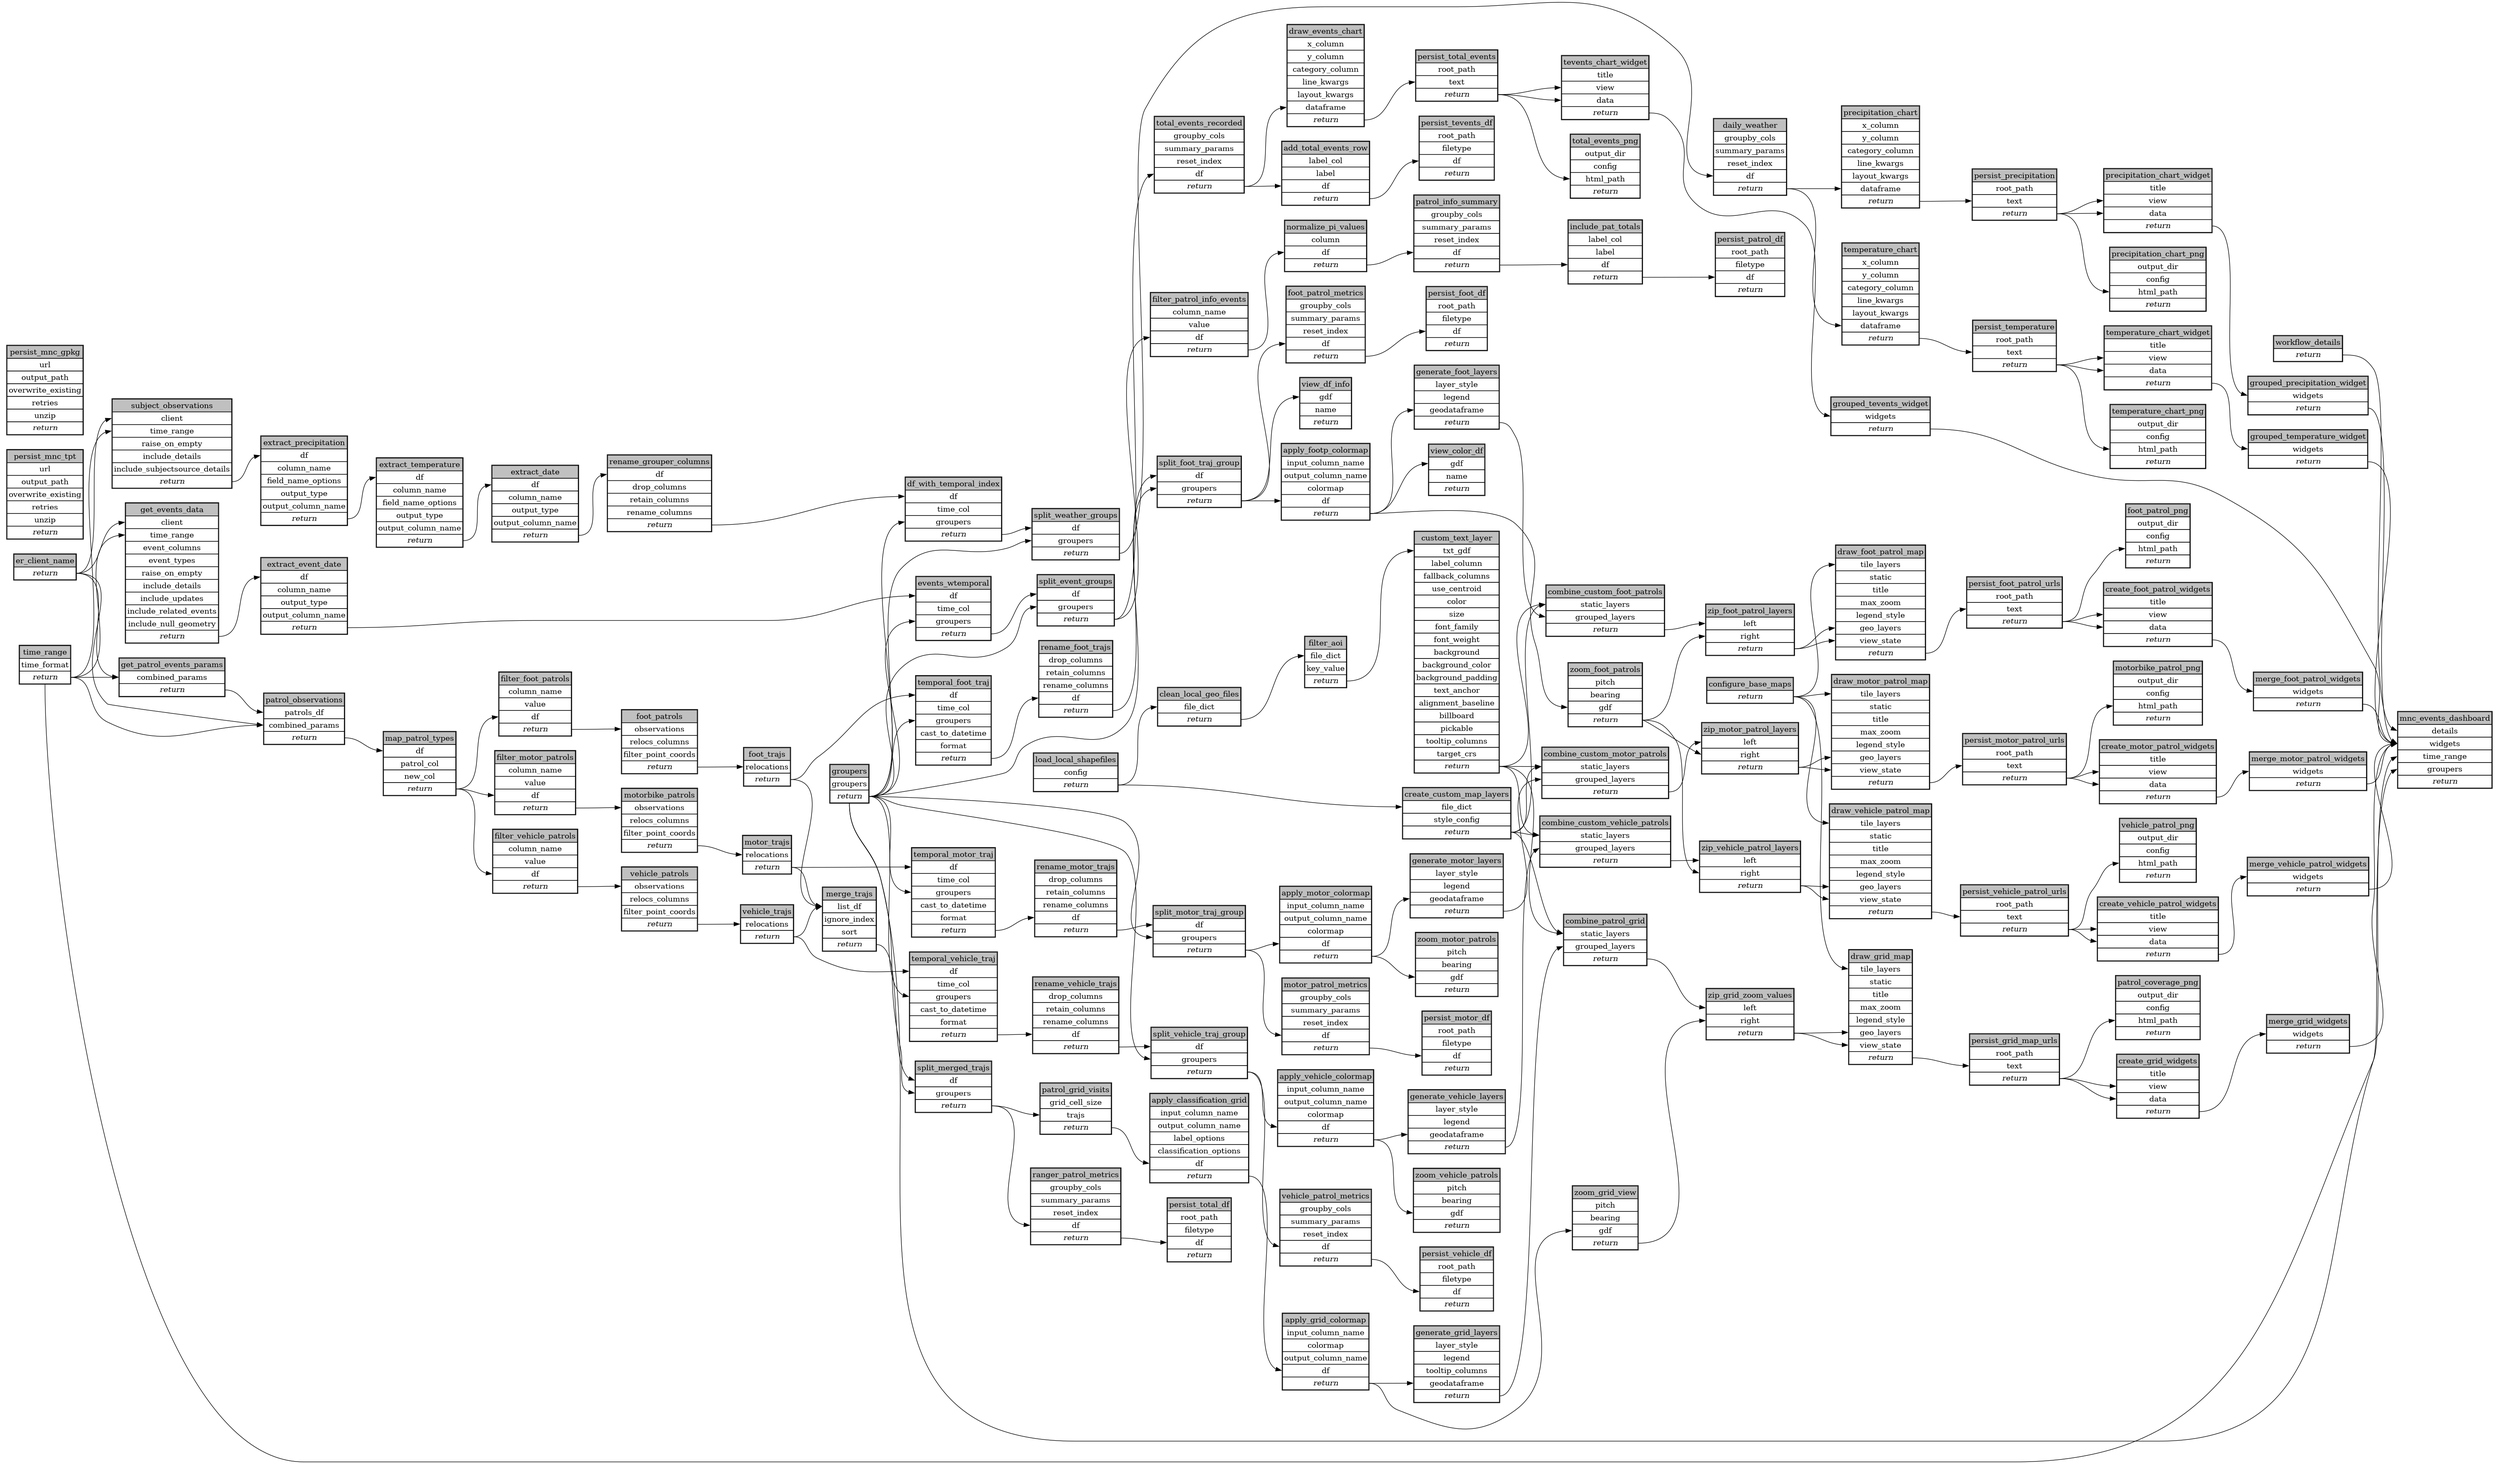
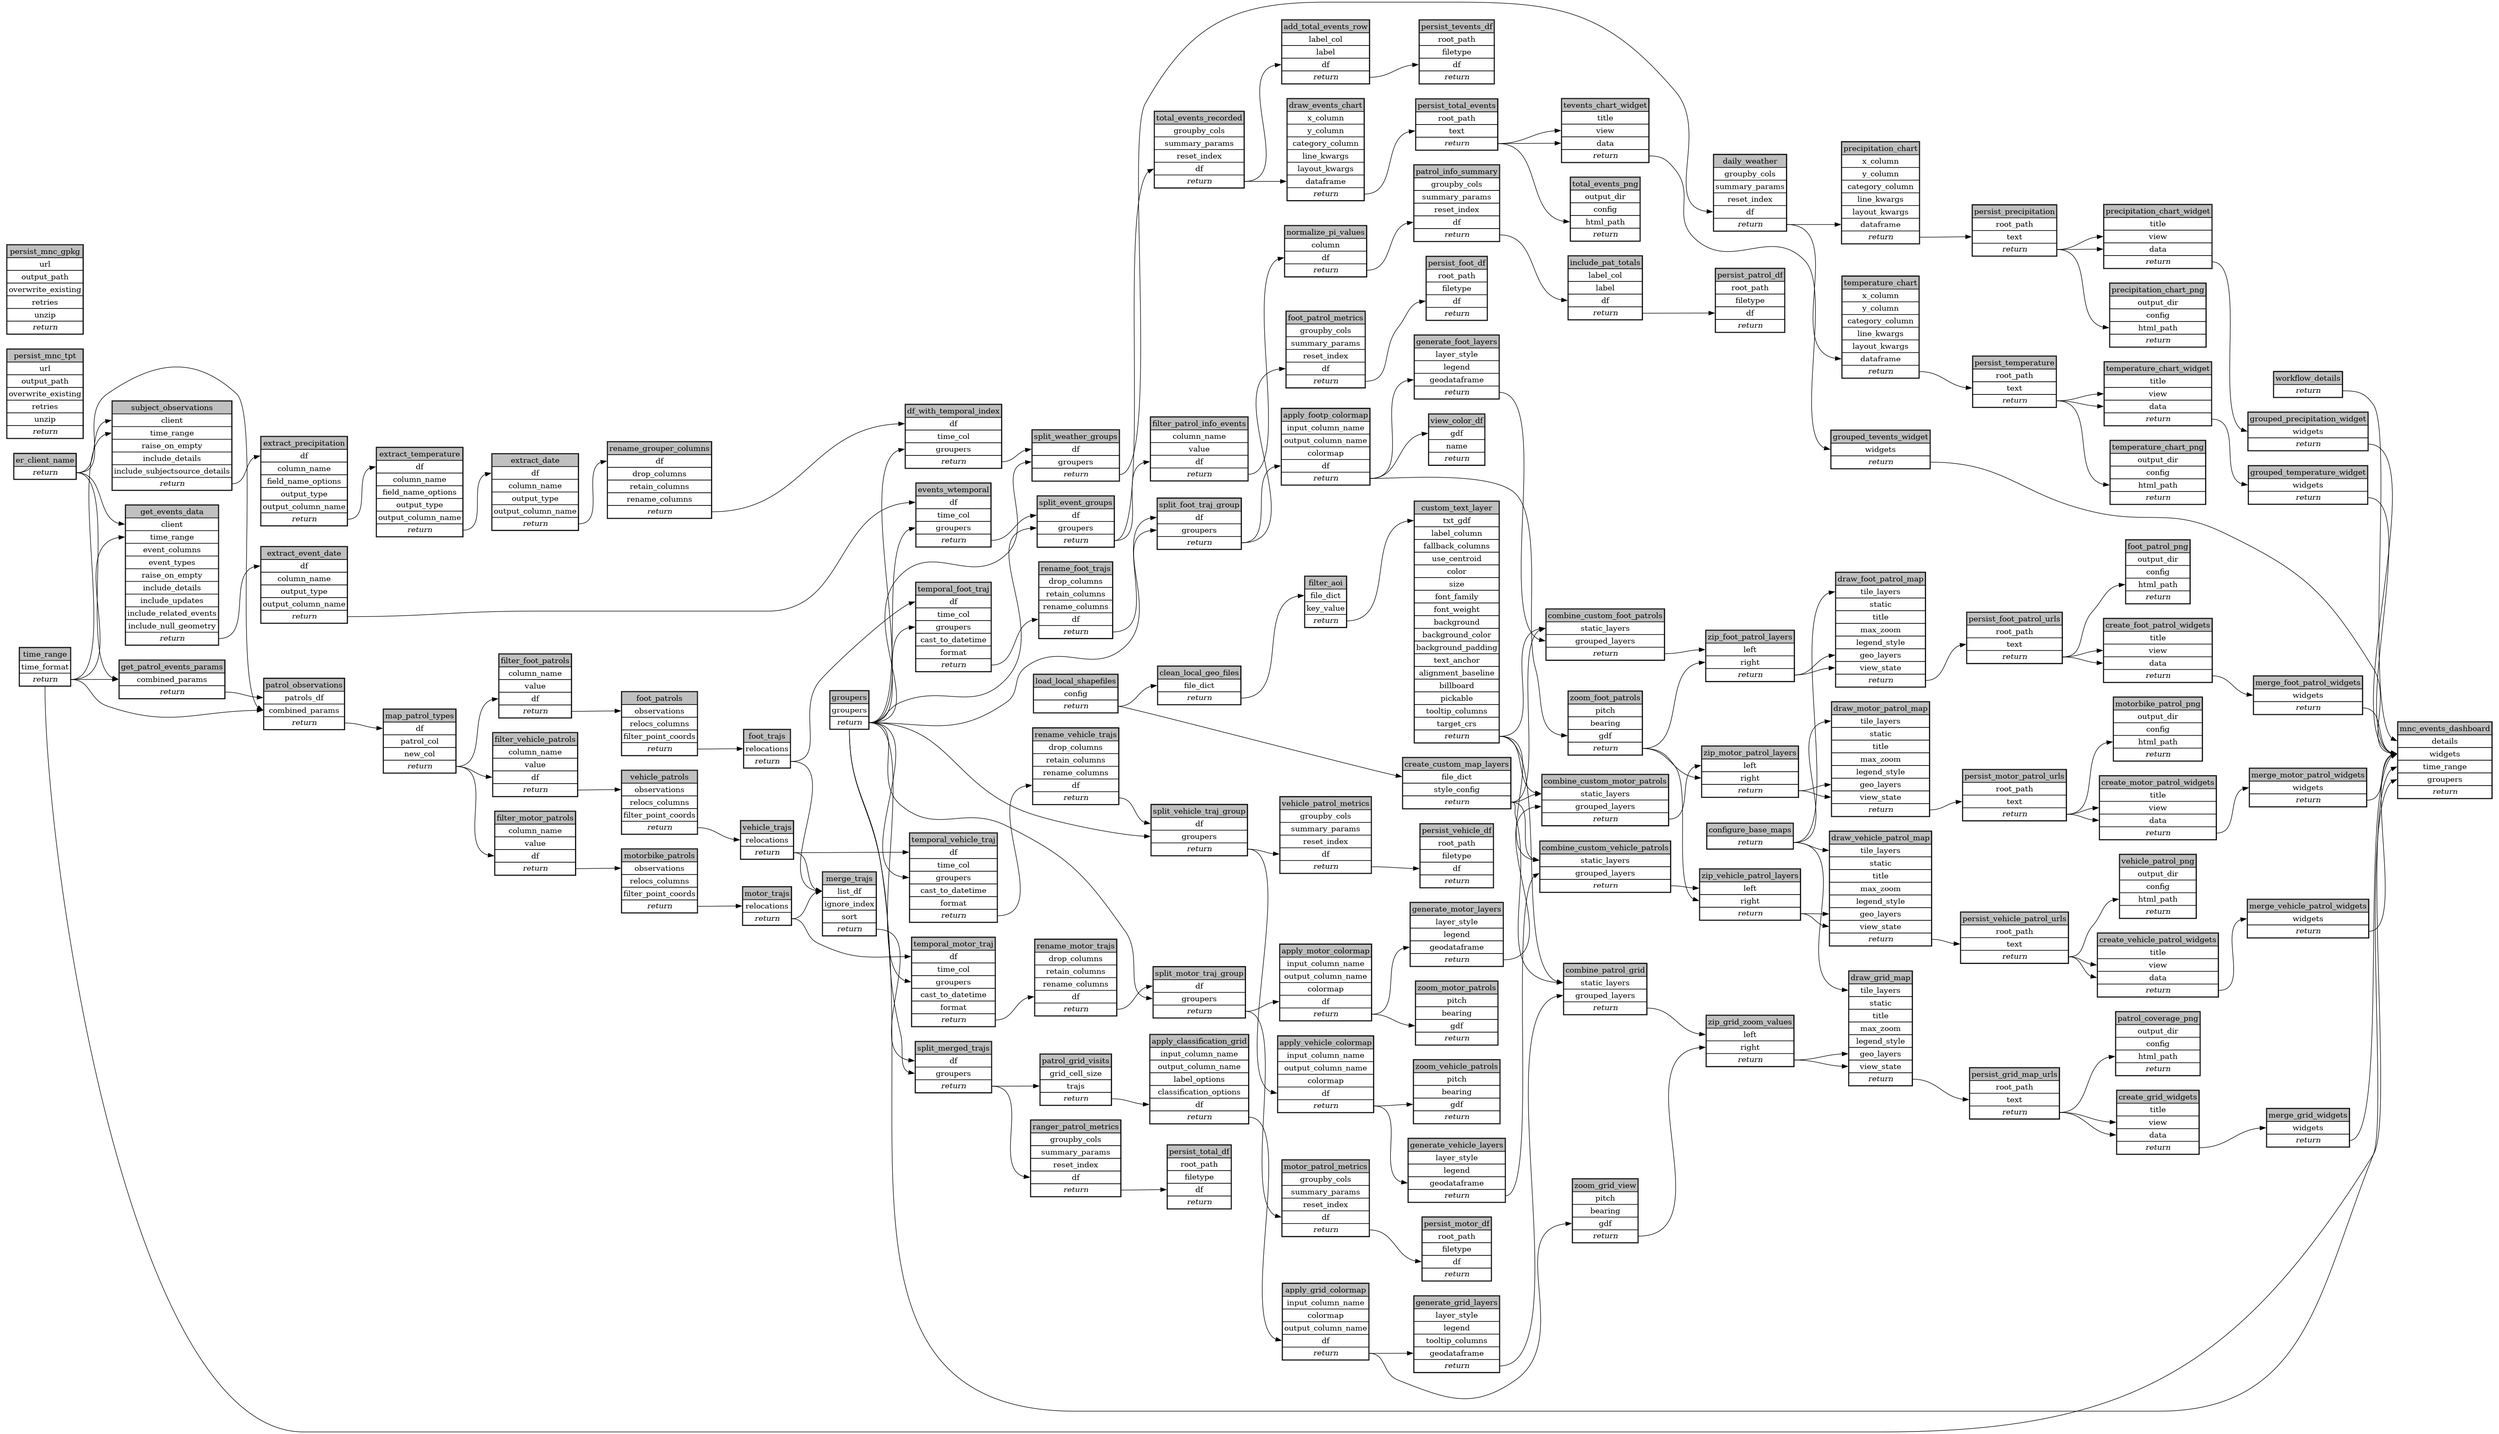
exclude view_gdf

Changed region(s): [[0.1557, 0.0, 1.0, 0.9652], [0.0, 0.1557, 0.2803, 0.4981], [0.7475, 0.9963, 0.841, 1.0]]

diff --git a/workflows/mara_north_event_report/ecoscope-workflows-mara-north-event-report-workflow/ecoscope_workflows_mara_north_event_report_workflow/dags/run_async.py b/workflows/mara_north_event_report/ecoscope-workflows-mara-north-event-report-workflow/ecoscope_workflows_mara_north_event_report_workflow/dags/run_async.py
@@ -143,7 +143,6 @@ def main(params: Params):
         "split_motor_traj_group": ["rename_motor_trajs", "groupers"],
         "foot_patrol_metrics": ["split_foot_traj_group"],
         "persist_foot_df": ["foot_patrol_metrics"],
-        "view_df_info": ["split_foot_traj_group"],
         "apply_footp_colormap": ["split_foot_traj_group"],
         "view_color_df": ["apply_footp_colormap"],
         "generate_foot_layers": ["apply_footp_colormap"],
@@ -1419,17 +1418,6 @@ def main(params: Params):
                 "argnames": ["df"],
                 "argvalues": DependsOn("foot_patrol_metrics"),
             },
-        ),
-        "view_df_info": Node(
-            async_task=view_gdf.validate()
-            .handle_errors(task_instance_id="view_df_info")
-            .set_executor("lithops"),
-            partial={
-                "gdf": DependsOn("split_foot_traj_group"),
-                "name": "Foot patrol trajectories before colormap",
-            }
-            | (params_dict.get("view_df_info") or {}),
-            method="call",
         ),
         "apply_footp_colormap": Node(
             async_task=apply_color_map.validate()

diff --git a/workflows/mara_north_event_report/ecoscope-workflows-mara-north-event-report-workflow/ecoscope_workflows_mara_north_event_report_workflow/dags/run_async_mock_io.py b/workflows/mara_north_event_report/ecoscope-workflows-mara-north-event-report-workflow/ecoscope_workflows_mara_north_event_report_workflow/dags/run_async_mock_io.py
@@ -178,7 +178,6 @@ def main(params: Params):
         "split_motor_traj_group": ["rename_motor_trajs", "groupers"],
         "foot_patrol_metrics": ["split_foot_traj_group"],
         "persist_foot_df": ["foot_patrol_metrics"],
-        "view_df_info": ["split_foot_traj_group"],
         "apply_footp_colormap": ["split_foot_traj_group"],
         "view_color_df": ["apply_footp_colormap"],
         "generate_foot_layers": ["apply_footp_colormap"],
@@ -1454,17 +1453,6 @@ def main(params: Params):
                 "argnames": ["df"],
                 "argvalues": DependsOn("foot_patrol_metrics"),
             },
-        ),
-        "view_df_info": Node(
-            async_task=view_gdf.validate()
-            .handle_errors(task_instance_id="view_df_info")
-            .set_executor("lithops"),
-            partial={
-                "gdf": DependsOn("split_foot_traj_group"),
-                "name": "Foot patrol trajectories before colormap",
-            }
-            | (params_dict.get("view_df_info") or {}),
-            method="call",
         ),
         "apply_footp_colormap": Node(
             async_task=apply_color_map.validate()

diff --git a/workflows/mara_north_event_report/ecoscope-workflows-mara-north-event-report-workflow/ecoscope_workflows_mara_north_event_report_workflow/dags/run_sequential.py b/workflows/mara_north_event_report/ecoscope-workflows-mara-north-event-report-workflow/ecoscope_workflows_mara_north_event_report_workflow/dags/run_sequential.py
@@ -1159,17 +1159,6 @@ def main(params: Params):
         .mapvalues(argnames=["df"], argvalues=foot_patrol_metrics)
     )
 
-    view_df_info = (
-        view_gdf.validate()
-        .handle_errors(task_instance_id="view_df_info")
-        .partial(
-            gdf=split_foot_traj_group,
-            name="Foot patrol trajectories before colormap",
-            **(params_dict.get("view_df_info") or {}),
-        )
-        .call()
-    )
-
     apply_footp_colormap = (
         apply_color_map.validate()
         .handle_errors(task_instance_id="apply_footp_colormap")

diff --git a/workflows/mara_north_event_report/ecoscope-workflows-mara-north-event-report-workflow/ecoscope_workflows_mara_north_event_report_workflow/dags/run_sequential_mock_io.py b/workflows/mara_north_event_report/ecoscope-workflows-mara-north-event-report-workflow/ecoscope_workflows_mara_north_event_report_workflow/dags/run_sequential_mock_io.py
@@ -1194,17 +1194,6 @@ def main(params: Params):
         .mapvalues(argnames=["df"], argvalues=foot_patrol_metrics)
     )
 
-    view_df_info = (
-        view_gdf.validate()
-        .handle_errors(task_instance_id="view_df_info")
-        .partial(
-            gdf=split_foot_traj_group,
-            name="Foot patrol trajectories before colormap",
-            **(params_dict.get("view_df_info") or {}),
-        )
-        .call()
-    )
-
     apply_footp_colormap = (
         apply_color_map.validate()
         .handle_errors(task_instance_id="apply_footp_colormap")

diff --git a/workflows/mara_north_event_report/ecoscope-workflows-mara-north-event-report-workflow/ecoscope_workflows_mara_north_event_report_workflow/dags/jupytext.py b/workflows/mara_north_event_report/ecoscope-workflows-mara-north-event-report-workflow/ecoscope_workflows_mara_north_event_report_workflow/dags/jupytext.py
@@ -1972,29 +1972,6 @@ persist_foot_df = (
 
 
 # %% [markdown]
-# ## view dataframe info
-
-# %%
-# parameters
-
-view_df_info_params = dict()
-
-# %%
-# call the task
-
-
-view_df_info = (
-    view_gdf.handle_errors(task_instance_id="view_df_info")
-    .partial(
-        gdf=split_foot_traj_group,
-        name="Foot patrol trajectories before colormap",
-        **view_df_info_params,
-    )
-    .call()
-)
-
-
-# %% [markdown]
 # ## Apply Colormap to foot patrols
 
 # %%

diff --git a/workflows/mara_north_event_report/ecoscope-workflows-mara-north-event-report-workflow/README.md b/workflows/mara_north_event_report/ecoscope-workflows-mara-north-event-report-workflow/README.md
@@ -5,8 +5,8 @@
 
 ```yaml
 # fingerprint:
-artifacts_sha256_basic: c270cc0cef276b76bd89d6f7a62dd341ff322b20ceeec7a759b76999a6a9aa45
-artifacts_sha256_strict: 7b657d9d8ff375cfb17f03b5b26e240a52c702aa1c87ca049971e1e830011462
+artifacts_sha256_basic: 567bfbd5a6fdc7c1813bce7f2b4a431ff750fb70035c901eebfbaafa820a2dae
+artifacts_sha256_strict: 88f59bf51bb30c882869ee76c2e916a8af9494bd55f740866ac159ac96807134
 installed_requirements:
 - channel: https://repo.prefix.dev/ecoscope-workflows/
   name: ecoscope-workflows-core
@@ -21,7 +21,7 @@ installed_requirements:
   name: ecoscope-workflows-ext-mnc
   version: {version: ==10000.dev63+gb8e6fca8b.d20251110}
 params_sha256: d3f23f12af0b1e64d1aacf1aff95dd678fb26c850f02f6538a8e955cbaf183c9
-spec_sha256: cf29703522ed4b7fc0ecbc0bd0bb6b0f4acae5cead9d8268ceb7845547a5798c
+spec_sha256: 26dbac782a612d093d6a19b06e181d820469f3e4f93e7fbda373ab1c191d7b65
 
 ```
 
